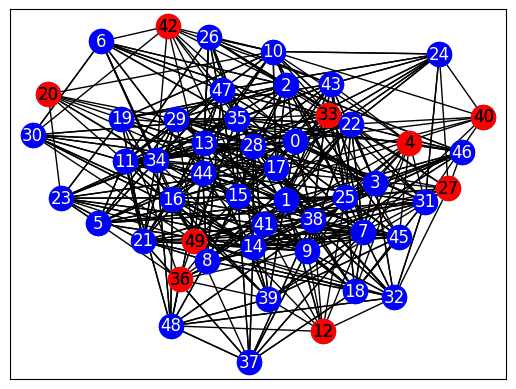
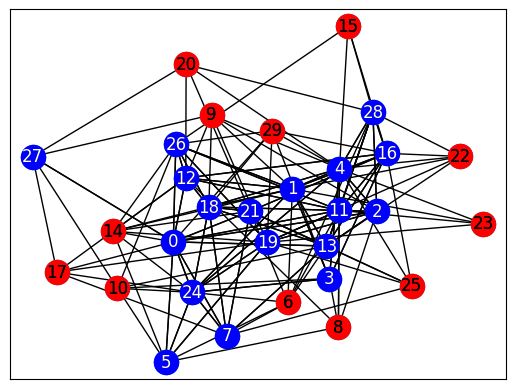
9/02/2020

diff --git a/Esempi-commentati/Pipelines-Antennas/antennas.py b/Esempi-commentati/Pipelines-Antennas/antennas.py
@@ -35,22 +35,12 @@ sampler = EmbeddingComposite(DWaveSampler())
 # Create empty graph
 G = nx.Graph()
 
-# Add edges to graph - this also adds the nodes
-#G.add_edges_from([(1, 2), (1, 3), (2, 3), (3, 4), (3, 5), (4, 5), (4, 6), (5, 6), (6, 7)])
-
-#esempio
-#G.add_edges_from([(1, 2), (1, 3), (1, 8), (2, 3), (2,10),
-#(3, 4), (3, 5), (4, 5), (4, 6), (4,8), (4,9), (5, 6), (5,10), (6, 7), (6,9), (7,10)])
-
-#provo a generare un grafo casuale
-n = 50
-p = 0.3
-g = erdos_renyi_graph(n, p)
-
-G.add_edges_from(g.edges)
+#Mettiamo un grafo fisso in modo da controllare la bontà dei risultati
+grafo = open("grafo.txt", "rb")
+G = nx.read_adjlist(grafo)
 
 # Find the maximum independent set, S
-S = dnx.maximum_independent_set(G, sampler=sampler, num_reads=10)
+S = dnx.maximum_independent_set(G, sampler=sampler, num_reads=100)
 
 # Print the solution for the user
 print('Maximum independent set size found is', len(S))

diff --git a/Esempi-commentati/Pipelines-Antennas/Graph-generator.py b/Esempi-commentati/Pipelines-Antennas/Graph-generator.py
@@ -1,0 +1,18 @@
+# Questo è un piccolo tool per generare grafi e stamparli come
+# lista di adiacenza su un file txt
+# Author: Rodolfo Tollois
+
+# Import networkx for graph tools
+import networkx as nx
+
+# Importo il generatore di grafi
+from networkx.generators.random_graphs import erdos_renyi_graph
+# Genero un grafo con N nodi e una probabilità che creino collegamenti P
+n = 30
+p = 0.3
+g = erdos_renyi_graph(n, p)
+
+# Creo un file e ci scrivo sopra la lista di adiacenza
+file_uno = open("grafo.txt", "wb")
+nx.write_adjlist(g, file_uno)
+file_uno.close()  
